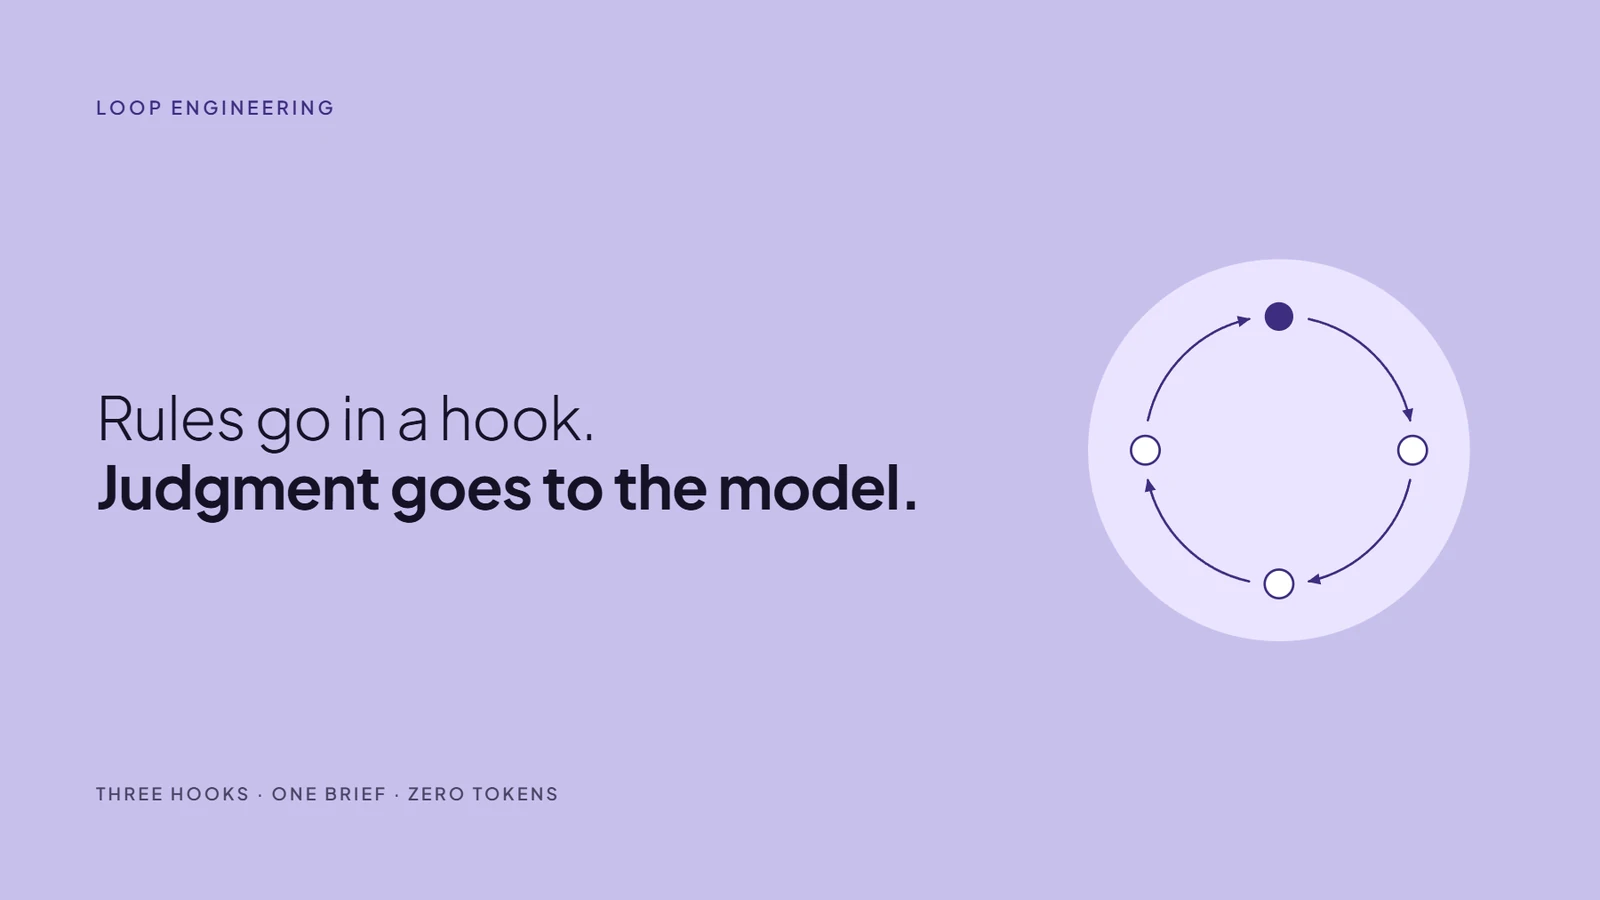
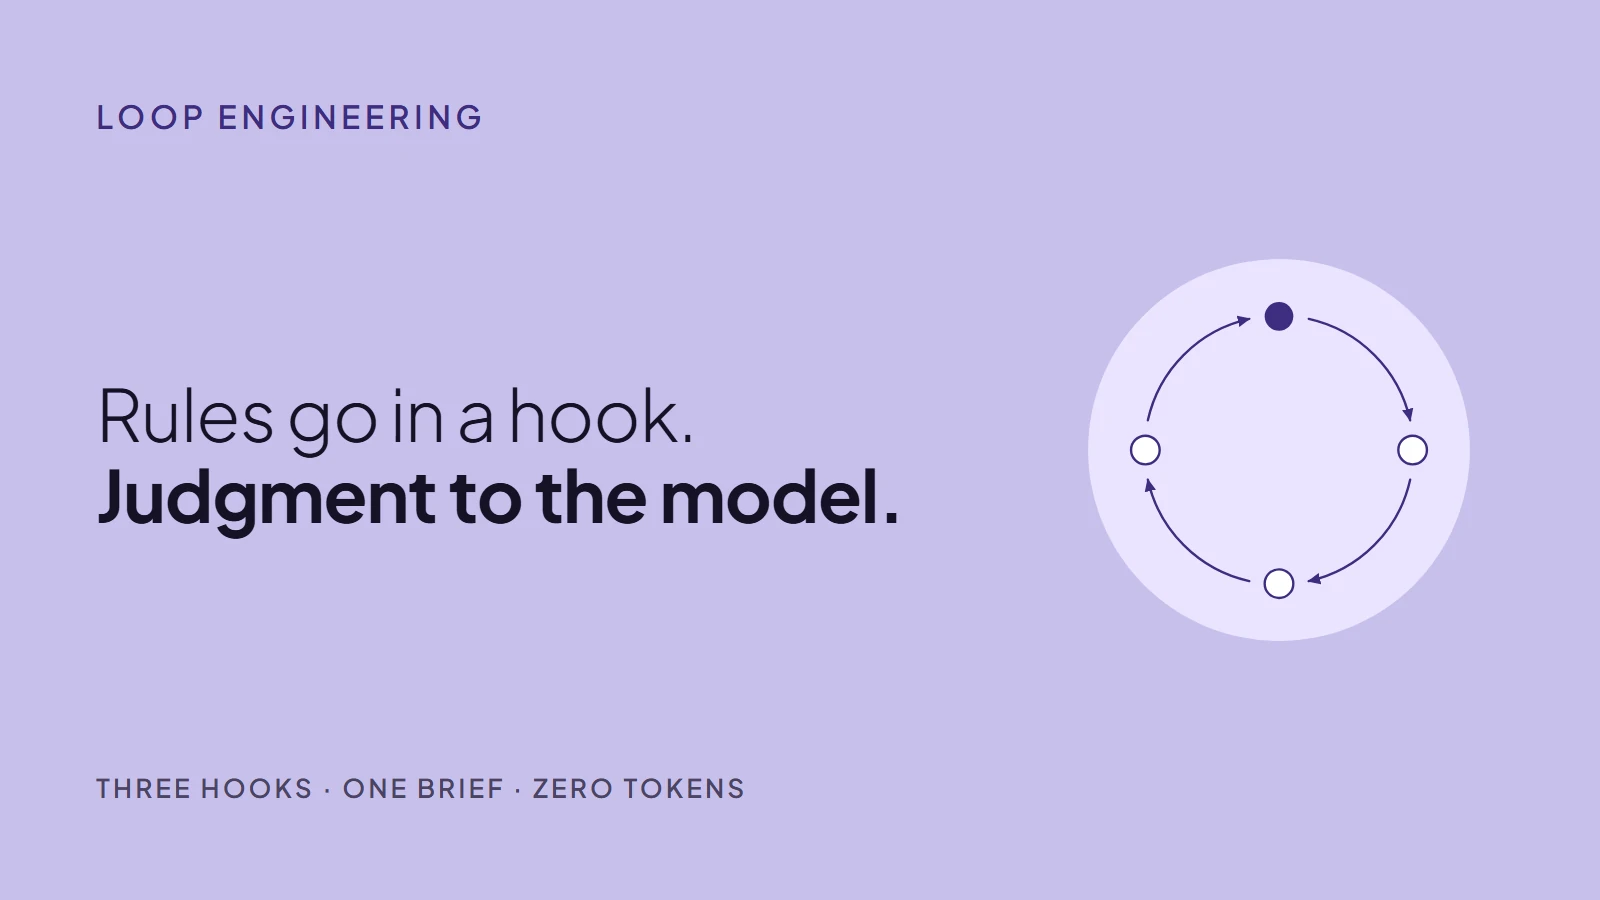
Hero refresh: four older posts onto the current hero system
- cheapest-part: re-rendered at 72px, "Judgment to the model." (same filename)
- knowledge-compounds: bone, rings, "Circulation is what makes an idea useful."
- VPS post: own hero on wash (rack); shared projects/vps-lab-hero.webp untouched
- agentic: mid, stacked planes, "Trust is built one layer at a time."
- agentic post body: five-layer stack as HTML/CSS, replacing 5-agentic-layers.webp
- removed knowledge-compounds-hero.webp and 5-agentic-layers.webp (no references)

Changed region(s): [[0.0625, 0.4356, 0.5625, 0.6222], [0.0625, 0.84, 0.4688, 0.9022], [0.0625, 0.0933, 0.3125, 0.1556]]

diff --git a/src/assets/css/home.css b/src/assets/css/home.css
@@ -1367,6 +1367,22 @@
     .article-body figure.pka-hero-figure { margin-top: 2rem; }
     .article-body figcaption { margin-top: 10px; font-size: .8rem; line-height: 1.55; color: var(--ink-3); }
 
+    /* Five-layer stack in what-does-it-take-to-build-an-agentic-system.md. Replaces the
+       5-agentic-layers.webp infographic (2026-11-03). Source order runs 1-5 for screen
+       readers; column-reverse puts layer 5 on top, matching the hero's stacked planes. */
+    .article-body .layer-stack ol { list-style: none; padding: 0; margin: 0; display: flex; flex-direction: column-reverse; gap: 8px; }
+    .article-body .layer-stack li {
+      margin: 0; display: grid; grid-template-columns: 2.2rem 1fr; column-gap: 12px; align-items: baseline;
+      padding: 14px 18px; border: 1px solid var(--accent-bdr); border-radius: 12px; background: var(--accent-tint);
+    }
+    .article-body .layer-stack .n { font-size: 1.4rem; font-weight: 800; color: var(--accent); }
+    .article-body .layer-stack strong { display: block; }
+    .article-body .layer-stack .d { font-size: .92rem; line-height: 1.5; color: var(--ink-2); }
+    .article-body .layer-stack li:first-child { background: var(--accent); border-color: var(--accent); }
+    .article-body .layer-stack li:first-child .n,
+    .article-body .layer-stack li:first-child strong,
+    .article-body .layer-stack li:first-child .d { color: #FFFFFF; }
+
     .article-body hr { border: 0; border-top: 1px solid var(--border); margin-block: 2.4em; }
 
     /* Tables. Markdown emits a bare <table> with no wrapper, so the scroll container has

diff --git a/src/content/post/what-does-it-take-to-build-an-agentic-system.md b/src/content/post/what-does-it-take-to-build-an-agentic-system.md
@@ -4,12 +4,23 @@ title: What Does It Take to Build an Agentic System, and Where Are Teams Getting
 description: The AI agent stack has a five-layer reference architecture now, and most teams only build the first two. Where the other three layers go missing, and what it costs when they do.
 dateFormatted: Jul 20, 2026
 tags: ["AI Agents", "Agent Architecture", "AI Training", "Evaluation"]
-heroImage: /assets/images/posts/5-agentic-layers.webp
+heroImage: /assets/images/posts/what-does-it-take-to-build-an-agentic-system-hero.webp
 ---
 
 What does it actually take to build a system you can trust with an AI agent, not a demo, a system? A month of AI tooling releases points to an answer. Microsoft shipped "Agent 365," an observability and trust layer that has nothing to do with generating text. Google built a "Knowledge Catalog" for the same reason. A wave of eval platforms, Langfuse, LangSmith, Arize, went from developer niche to first-class purchase line item in the same stretch of weeks. Read individually, this looks like ordinary tooling churn. Read together, it sketches a five-part answer: agent, tools, memory, evaluation, governance.
 
 And a KPMG survey of 2,145 executives points to exactly where most teams actually stop. Seven percent said they could demonstrate a return on their AI spending. The other ninety-three percent aren't running worse models than the seven percent who can. Most are running the same ChatGPT and Claude everyone else is. The difference isn't the tool. It's how many of the five layers actually got built.
+
+<figure class="layer-stack">
+<ol>
+<li><span class="n">1</span><span><strong>Agent</strong><span class="d">The model doing the reasoning and the planning.</span></span></li>
+<li><span class="n">2</span><span><strong>Tools</strong><span class="d">The connections that let the agent act on real systems.</span></span></li>
+<li><span class="n">3</span><span><strong>Memory and knowledge</strong><span class="d">Where the agent's context comes from, and how it's governed.</span></span></li>
+<li><span class="n">4</span><span><strong>Evaluation</strong><span class="d">How you know the agent is actually working.</span></span></li>
+<li><span class="n">5</span><span><strong>Governance</strong><span class="d">Who's watching the agent, and what happens when it does something it shouldn't.</span></span></li>
+</ol>
+<figcaption>The five layers of an agentic system, built from the bottom up.</figcaption>
+</figure>
 
 ## What does it actually take?
 

diff --git a/src/content/post/what-self-hosting-a-vps-actually-buys-a-one-person-ai-system.md b/src/content/post/what-self-hosting-a-vps-actually-buys-a-one-person-ai-system.md
@@ -4,7 +4,7 @@ title: Put a VPS in your stack. Here's what mine looks like.
 description: Project management, automation, and memory don't have to live in five different companies' databases. Renting one small server and running the open-source version of each tool yourself is less work than it sounds, and here's the stack I actually run.
 dateFormatted: Aug 17, 2026
 tags: ["Self-Hosted Infrastructure", "VPS", "PKA System", "AI Agents", "Docker"]
-heroImage: /assets/images/projects/vps-lab-hero.webp
+heroImage: /assets/images/posts/what-self-hosting-a-vps-actually-buys-a-one-person-ai-system-hero.webp
 ---
 
 A personal AI operating system needs a handful of things running all the time: somewhere to track tasks, somewhere automations fire on a schedule, somewhere a knowledge base lives that's more than a folder of notes, somewhere an agent like Claude Code can keep working when the laptop is closed. The easy path is a subscription for each: a task app, an automation platform, a bookmarking tool, a notes app. It's convenient, and it adds up to your workflows and your history scattered across five companies' databases, none of which talk to each other, all billing monthly.

diff --git a/src/content/post/knowledge-compounds-when-you-circulate-it.md b/src/content/post/knowledge-compounds-when-you-circulate-it.md
@@ -3,7 +3,7 @@ layout: ../../layouts/post.astro
 title: Knowledge compounds when you circulate it.
 description: Why writing is how I process ideas, who I hope to connect with, and the case for putting knowledge into circulation instead of letting it sit still.
 dateFormatted: Jul 6, 2026
-heroImage: /assets/images/posts/knowledge-compounds-hero.webp
+heroImage: /assets/images/posts/knowledge-compounds-when-you-circulate-it-hero.webp
 ---
 
 To share what I'm thinking about, find others who are wrestling with the same questions, and learn together. If something here resonates with you, I'd love to hear from you.
